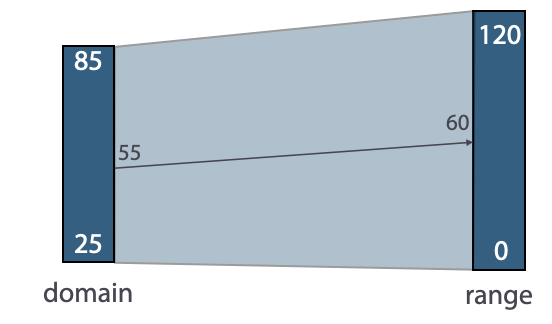
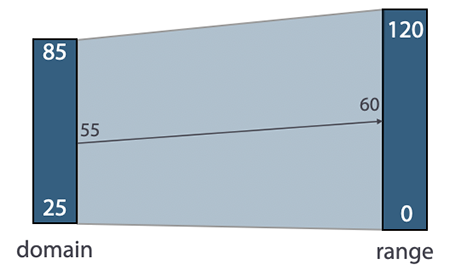
Updated calendar and resized images.

diff --git a/calendar.md b/calendar.md
@@ -50,129 +50,112 @@ permalink: /calendar/
       <td>Introdução ao Tableau Parte III (EAD)</td>
     </tr>
     <tr>
-      <td><b>16/03/2020</b></td>
-      <td>Introdução ao Tableau Parte IV</td>
-    </tr>
-    <tr>
-      <td><b>18/03/2020</b></td>
-      <td>Introdução ao Tableau Parte V</td>
-    </tr>
-    <tr>
-      <td><b>23/03/2020</b></td>
-      <td>Tecnologias Web</td>
-    </tr>
-    <tr>
-      <td><b>25/03/2020</b></td>
-      <td>Feriado Estadual: Data Magna do Ceará</td>
-    </tr>
-    <tr>
-      <td><b>30/03/2020</b></td>
-      <td> Introdução ao D3 - parte 1 (dados) </td>
-    </tr>
-    <tr>
-      <td><b>01/04/2020</b></td>
-      <td>Encontros Universitários (Não haverá aula)</td>
-    </tr>
-    <tr>
-      <td><b>06/04/2020</b></td>
-      <td> Introdução ao D3 - parte 2 (escalas e eixos)</td>
-    </tr>
-    <tr>
-      <td><b>08/04/2020</b></td>
-      <td> Introdução ao D3 - parte 3 (updates e transições) </td>
+      <td><b>16/03/2020 a 08/04/2020</b></td>
+      <td>Período de transição da quarentena sem aulas</td>
     </tr>
     <tr>
       <td><b>13/04/2020</b></td>
-      <td> Tabelas (cap.7) (EAD) </td>
+      <td>Introdução ao Tableau Parte IV</td>
     </tr>
     <tr>
       <td><b>15/04/2020</b></td>
-      <td> Visualização de dados tabulares em D3, crossfilter e dc.js </td>
-    </tr>
-    <tr>
-      <td><b>20/04/2020</b></td>
-      <td> Visualização de dados tabulares em D3, crossfilter e dc.js Parte 2 (EAD)</td>
+      <td>Introdução ao Tableau Parte V</td>
     </tr>
     <tr>
       <td><b>22/04/2020</b></td>
-      <td> Dados espaciais (cap. 8)</td>
+      <td>Tecnologias Web</td>
     </tr>
     <tr>
       <td><b>27/04/2020</b></td>
-      <td> Visualização de Dados espaciais em D3 + leaflet  </td>
+      <td> Introdução ao D3 - parte 1 (dados) </td>
     </tr>
     <tr>
       <td><b>29/04/2020</b></td>
-      <td> Redes e Grafos (cap. 9) (EAD) </td>
+      <td> Tabelas (cap.7)</td>
     </tr>
     <tr>
       <td><b>04/05/2020</b></td>
-      <td> Aula prática: Redes e Grafos </td>
+      <td> Introdução ao D3 - parte 2 (escalas e eixos) </td>
     </tr>
     <tr>
       <td><b>06/05/2020</b></td>
-      <td> Cor (cap. 10) </td>
+      <td> Introdução ao D3 - parte 3 (updates e transições) </td>
     </tr>
     <tr>
       <td><b>11/05/2020</b></td>
-      <td> Mapas de cor em Visualizações</td>
+      <td> Visualização de dados tabulares em D3, crossfilter e dc.js </td>
     </tr>
     <tr>
       <td><b>13/05/2020</b></td>
-      <td> Estratégias para lidar com a Complexidade (Parte I) </td>
+      <td> Visualização de dados tabulares em D3, crossfilter e dc.js Parte 2</td>
     </tr>
     <tr>
       <td><b>18/05/2020</b></td>
-      <td> Estratégias para Lidar com a Complexidade (Parte II) </td>
+      <td> Dados espaciais (cap. 8)</td>
     </tr>
     <tr>
       <td><b>20/05/2020</b></td>
-      <td> Apresentação de Propostas de Projeto Final</td>
+      <td> Visualização de Dados espaciais em D3 + leaflet  </td>
     </tr>
     <tr>
       <td><b>25/05/2020</b></td>
-      <td> Não haverá aula - Eurovis 2020</td>
+      <td> Redes e Grafos (cap. 9)</td>
     </tr>
     <tr>
       <td><b>27/05/2020</b></td>
-      <td> Não haverá aula - Eurovis 2020</td>
+      <td> Aula prática: Redes e Grafos </td>
     </tr>
     <tr>
       <td><b>01/06/2020</b></td>
-      <td> Acompanhamento Projeto Final</td>
+      <td> Cor (cap. 10) </td>
     </tr>
     <tr>
       <td><b>03/06/2020</b></td>
-      <td> Acompanhamento Projeto Final</td>
+      <td> Mapas de cor em Visualizações</td>
     </tr>
     <tr>
       <td><b>08/06/2020</b></td>
-      <td> Apresentações de artigo por alunos da pós </td>
+      <td> Estratégias para lidar com a Complexidade (Parte I) </td>
     </tr>
     <tr>
       <td><b>10/06/2020</b></td>
-      <td> Apresentações de artigo por alunos da pós </td>
+      <td> Apresentação de Propostas de Projeto Final </td>
     </tr>
     <tr>
       <td><b>15/06/2020</b></td>
-      <td> Apresentação projeto final (graduação)</td>
+      <td> Estratégias para Lidar com a Complexidade (Parte II)</td>
     </tr>
     <tr>
       <td><b>17/06/2020</b></td>
-      <td> Apresentação projeto final (graduação) </td>
+      <td> Migrando do Observable para outro site </td>
     </tr>
     <tr>
       <td><b>22/06/2020</b></td>
-      <td> Apresentação projeto final (pós-graduação) </td>
+      <td> Acompanhamento Projeto Final</td>
     </tr>
     <tr>
       <td><b>24/06/2020</b></td>
-      <td> Apresentação projeto final (pós-graduação) </td>
+      <td> Apresentações de artigo por alunos da pós</td>
     </tr>
     <tr>
       <td><b>29/06/2020</b></td>
+      <td> Apresentações de artigo por alunos da pós </td>
+    </tr>
+    <tr>
+      <td><b>01/07/2020</b></td>
+      <td> Acompanhamento Projeto Final </td>
+    </tr>
+    <tr>
+      <td><b>06/07/2020</b></td>
+      <td> Apresentação projeto final (graduação)</td>
+    </tr>
+    <tr>
+      <td><b>08/07/2020</b></td>
+      <td> Apresentação projeto final (pós-graduação) </td>
+    </tr>
+    <tr>
+      <td><b>13/07/2020</b></td>
       <td> Avaliação Final </td>
     </tr>
-    
     </tbody>
 </table>
